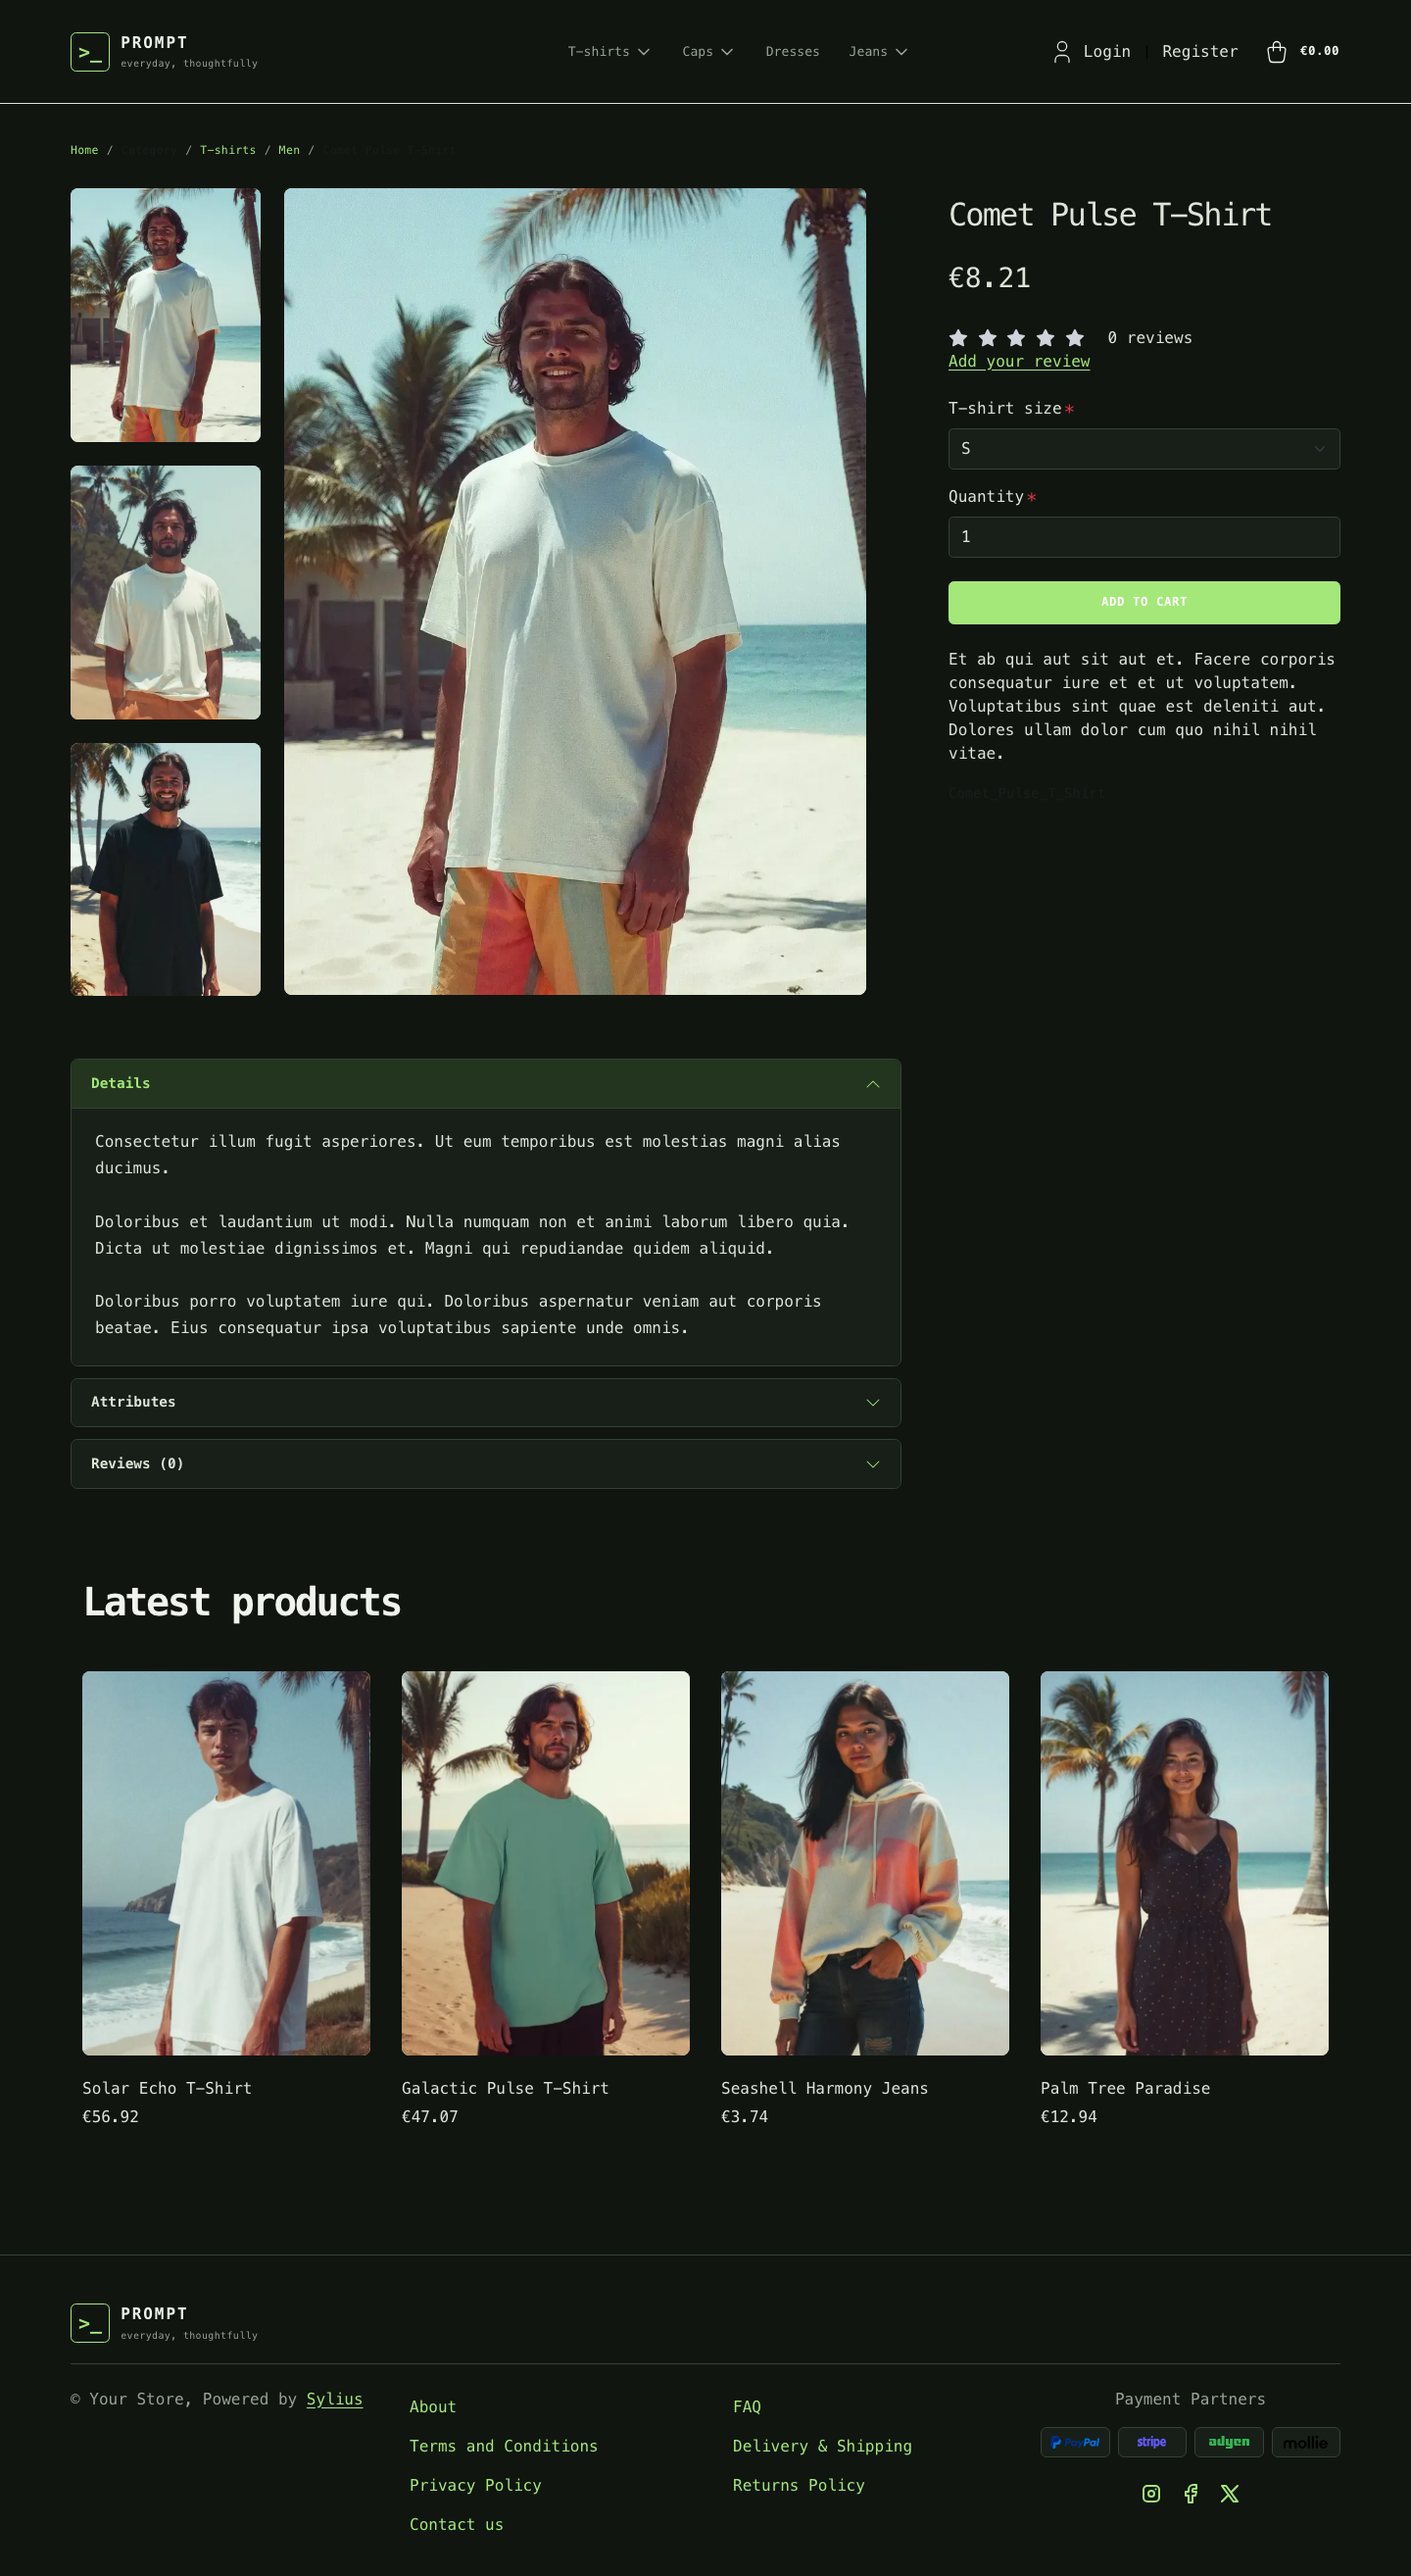
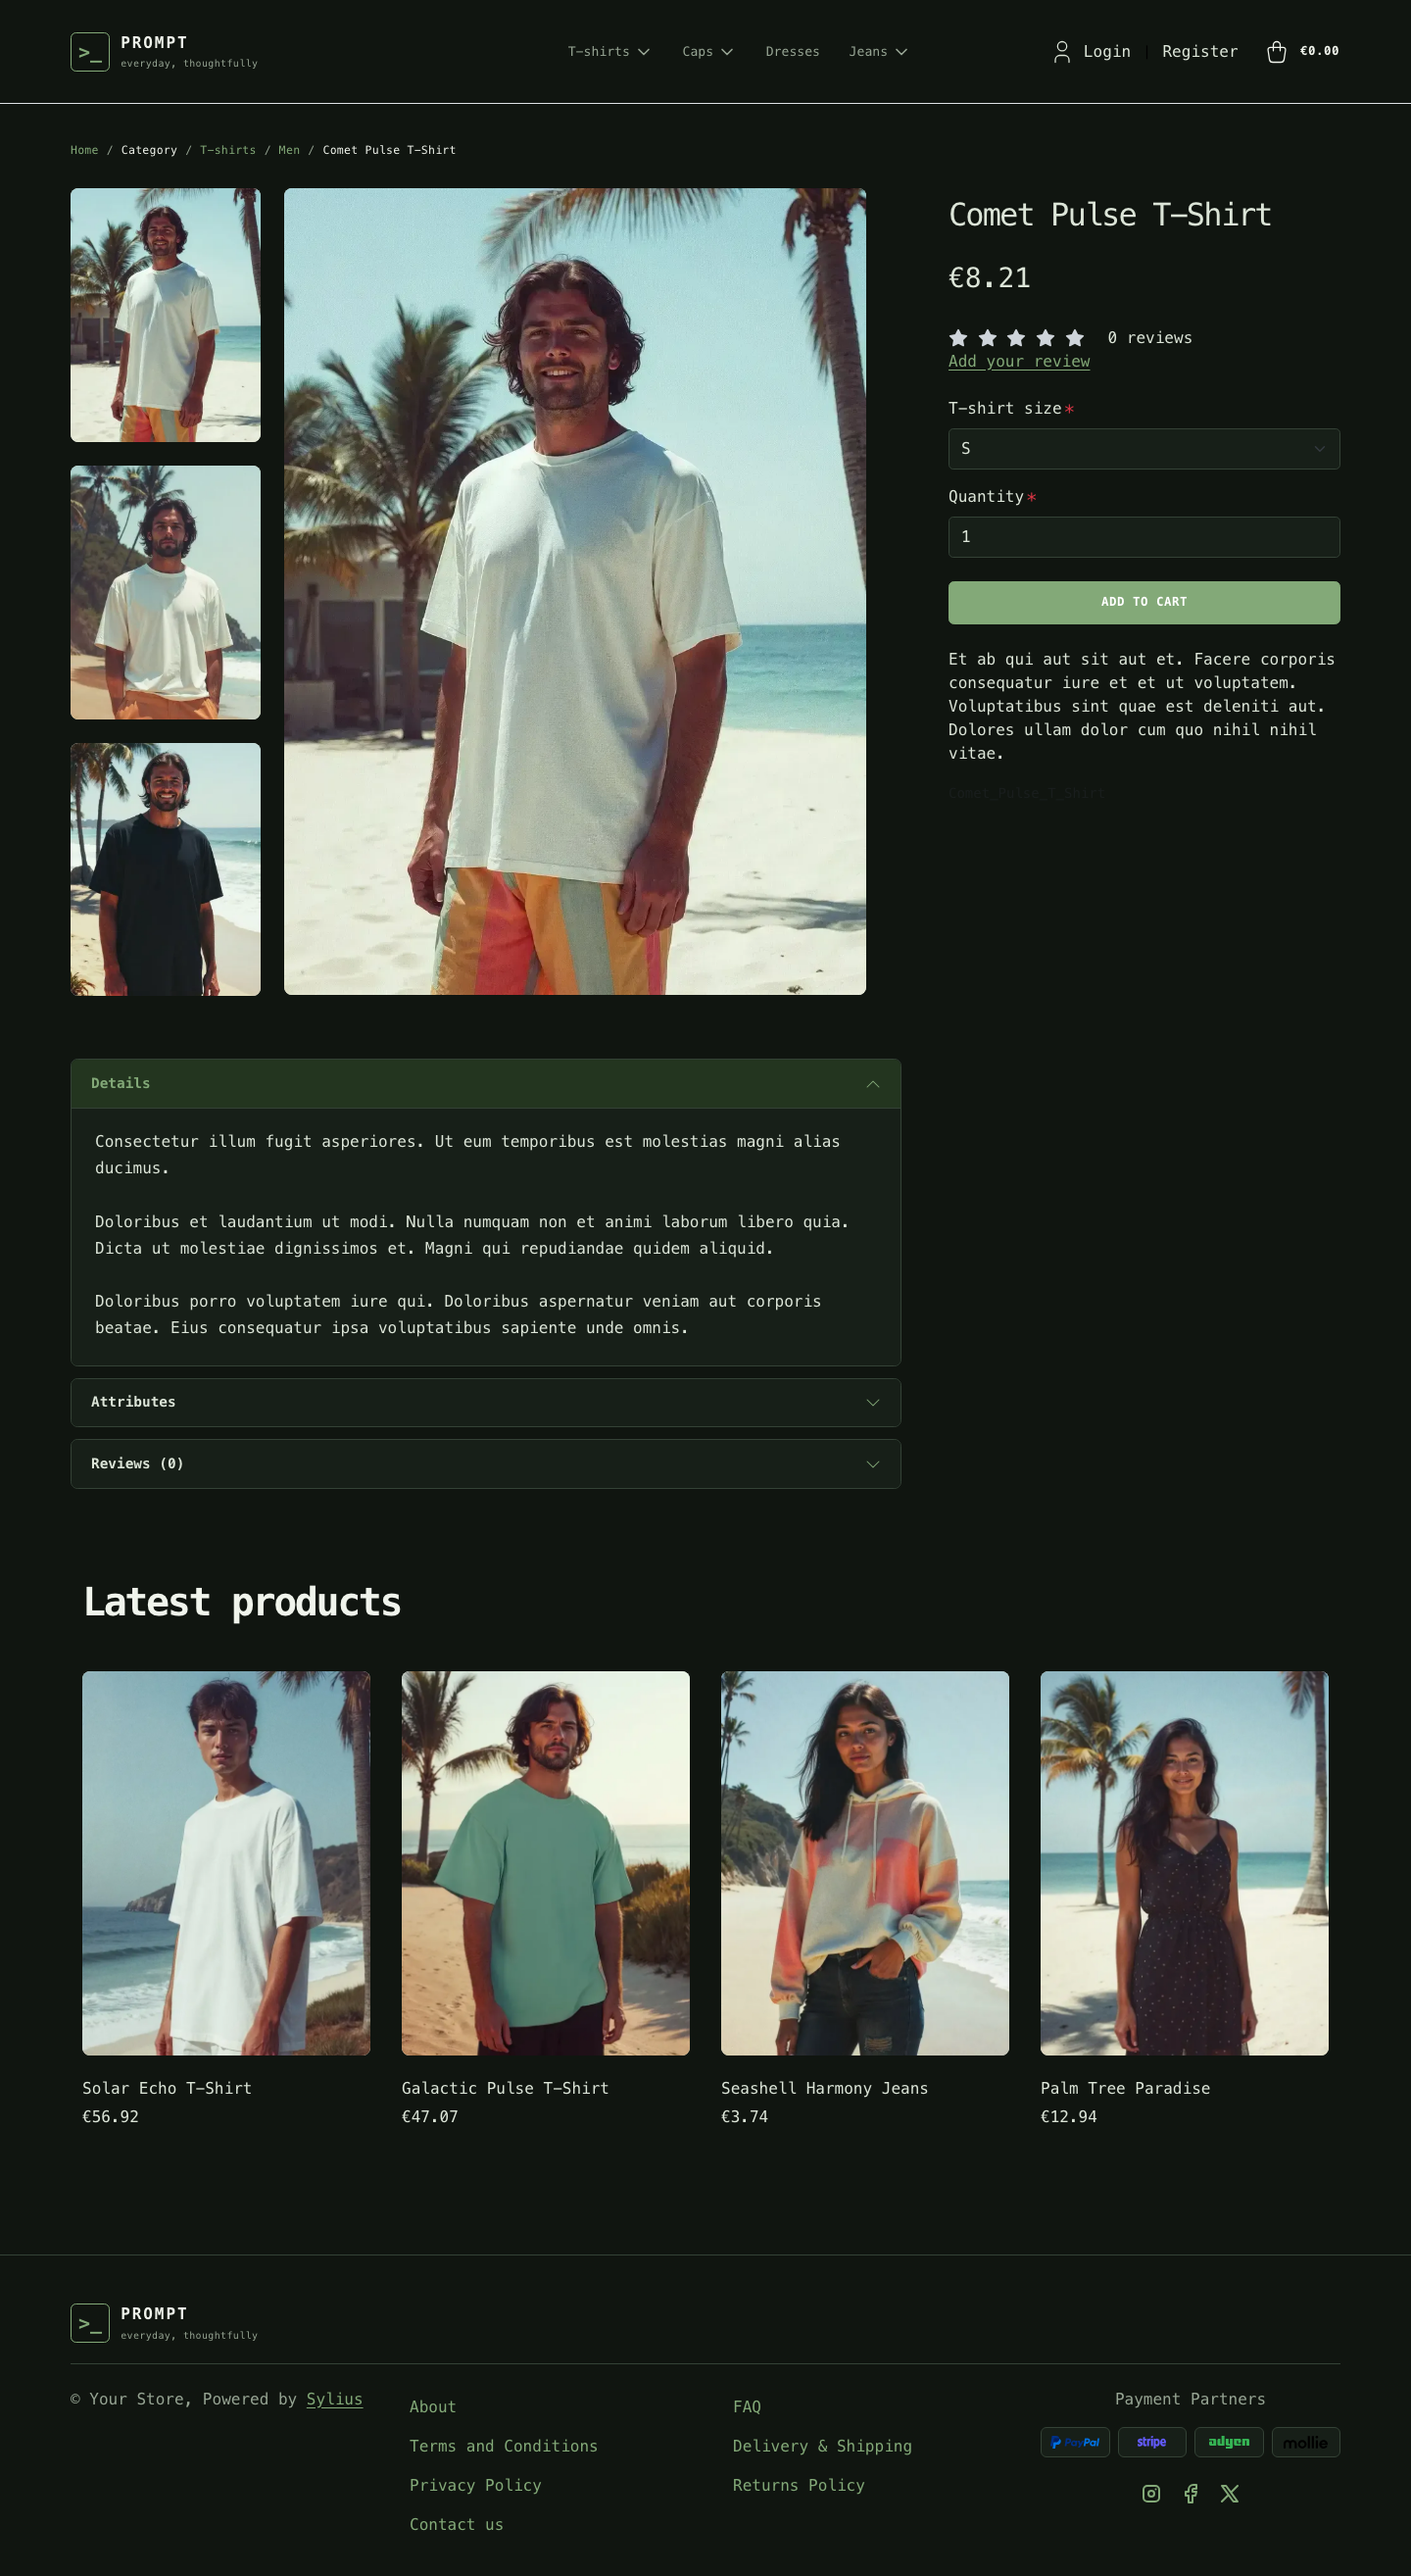
feat(themes): Improve the Prompt theme

Changed region(s): [[0.6562, 0.2184, 0.9688, 0.2496]]

diff --git a/resources/theme/prompt/assets/shop/styles/_breadcrumbs.scss b/resources/theme/prompt/assets/shop/styles/_breadcrumbs.scss
@@ -8,7 +8,15 @@
   letter-spacing: 0.02em;
 
   .breadcrumb-item a {
-    color: $green;
+    color: $green !important;
+  }
+
+  .breadcrumb-item:not(.active) .text-body-tertiary {
+    color: $white !important;
+  }
+
+  .breadcrumb-item.active .text-body-tertiary {
+    color: $white !important;
   }
 
   .breadcrumb-item.active {

diff --git a/resources/theme/prompt/assets/shop/styles/_header.scss b/resources/theme/prompt/assets/shop/styles/_header.scss
@@ -163,6 +163,11 @@ header .navbar-brand {
   }
 }
 
+.prompt-cart-button .badge {
+  background-color: $green !important;
+  color: $white !important;
+}
+
 @media (max-width: 991.98px) {
   .prompt-category-nav__menu {
     position: fixed;

diff --git a/resources/theme/prompt/assets/shop/styles/_variables.scss b/resources/theme/prompt/assets/shop/styles/_variables.scss
@@ -8,7 +8,7 @@ $white: #F0F4EC;
 $background: #101510;
 $surface: #171F18;
 $surface-raised: #1D281F;
-$green: #A4E879;
+$green: #83A978;
 $green-soft: #23351F;
 $light: #E4ECDF;
 $light-text: #101510;

diff --git a/resources/theme/prompt/assets/shop/styles/_buttons.scss b/resources/theme/prompt/assets/shop/styles/_buttons.scss
@@ -17,7 +17,8 @@
   }
 }
 
-.btn-primary {
+.btn-primary,
+.btn-success {
   --bs-btn-color: #{$black};
   --bs-btn-bg: #{$green};
   --bs-btn-border-color: #{$green};
